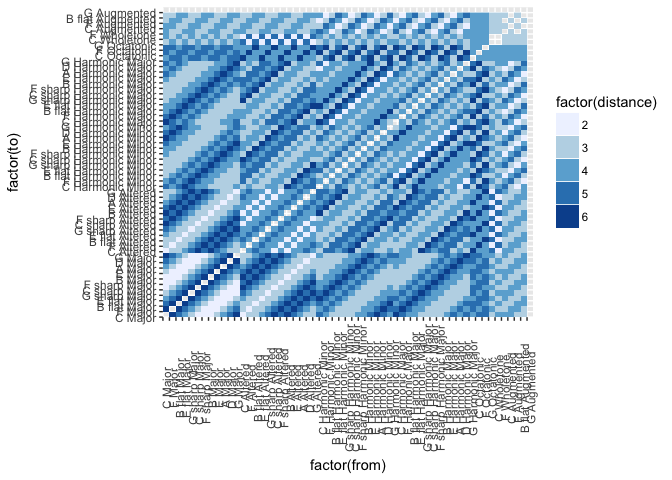
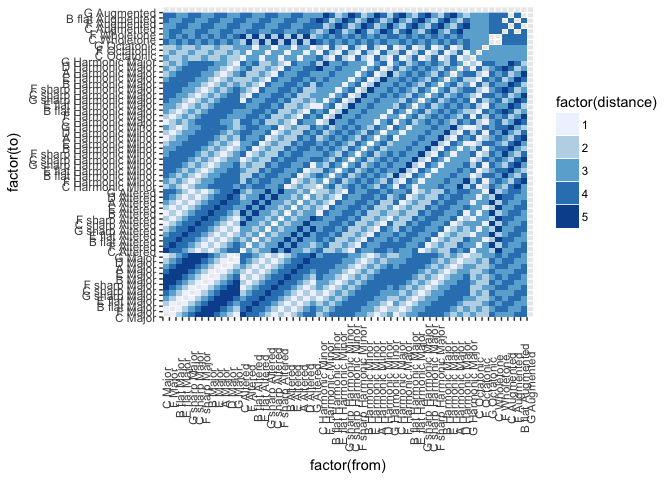
visualize simple scale subgraphs

Changed region(s): [[0.2188, 0.0, 0.7812, 0.6875], [0.8438, 0.3438, 0.875, 0.375], [0.8438, 0.25, 0.875, 0.2812]]

diff --git a/readme.md b/readme.md
@@ -19,7 +19,7 @@ Table of Contents
 ### Unexpected shapes in data
 
 After reading about unsupervised machine learning algorithms, like those in manifold learning, I became very interested in the shapes of datasets. I wanted to explore my own data sets and see how I could represent them in 2 or 3 dimensions.
-After some reading, I learned how the feature space of natural images is embedded on a **Klein bottle** (Carlsson et al. 2008), the famous topological curiosity that is locally 2-dimensional yet cannot be fully embedded or "placed" in 3 dimensions without self-intersecting.
+After some reading, I learned how the feature space of natural images is embedded on a **Klein bottle** \[@carlsson2008\], the famous topological curiosity that is locally 2-dimensional yet cannot be fully embedded or "placed" in 3 dimensions without self-intersecting.
 I found this to be one of those few times where the results of an investigation are so completely astonishing, that it changes the way I think. Carlsson's work inspired me to look at all data more deeply.
 
 ### Jazz is complex and structured, too
@@ -48,7 +48,7 @@ Mathematically we say they are isomorphic to the [quotient space](https://en.wik
 
 ### Manifolds and Music
 
-The combination of **high-dimensionality** and **circularity** suggests that an application of the topological theory of manifolds is necessary to study musical scales and harmony. In fact, in a 2006 study published in *Science*, Dr. Dmitri Tymoczko discovered the manifold structure of the voice-leading space(Tymoczko 2006). In this study, it was found that all chords of N pitches have an embedding on a manifold that is an N-dimensional analog to the Moebius strip. This embedding gives a representation in which one could visualize and intuitively understand certain complex chord changes, such as Chopin's E Minor Prelude that had challenged music theorists for decades.
+The combination of **high-dimensionality** and **circularity** suggests that an application of the topological theory of manifolds is necessary to study musical scales and harmony. In fact, in a 2006 study published in *Science*, Dr. Dmitri Tymoczko discovered the manifold structure of the voice-leading space\[@tymoczko2006\]. In this study, it was found that all chords of N pitches have an embedding on a manifold that is an N-dimensional analog to the Moebius strip. This embedding gives a representation in which one could visualize and intuitively understand certain complex chord changes, such as Chopin's E Minor Prelude that had challenged music theorists for decades.
 
 ### Project Goals
 
@@ -62,7 +62,17 @@ Tymoczko's work encouraged me to consider topological graph theory applied to th
 ----------------------------------------
 
 Some graphs can be embedded in the plane without intersection and these are called *planar graphs*. Others cannot be embedded in a plane because intersections are inevitable (the [utility graph](https://en.wikipedia.org/wiki/Three_utilities_problem) is a famous example).
-All can, however, be embedded in 3-dimensions, and all can be embedded in a manifold that is locally 2-dimensional everywhere, such as a [torus](https://en.wikipedia.org/wiki/Torus) (Trudeau 2013). Those that can be embedded in a torus, no surprise, are called [toroidal graphs](https://en.wikipedia.org/wiki/Toroidal_graph)
+All can, however, be embedded in 3-dimensions, and all can be embedded in a manifold that is locally 2-dimensional everywhere, such as a [torus](https://en.wikipedia.org/wiki/Torus) \[@trudeau2013\]. Those that can be embedded in a torus, no surprise, are called [toroidal graphs](https://en.wikipedia.org/wiki/Toroidal_graph)
+
+``` r
+library('curl')
+library('latexreadme')
+```
+
+Mathematical displays are marked off with `\[` and `\]`, as in
+*e*<sup>*i**π*</sup> = −1
+
+Before we can visualize scale networks, we have to reshape of the data.
 
 <a name="wrangling" /> Data Wrangling
 -------------------------------------
@@ -81,6 +91,7 @@ edge_list_raw <- data.table(read.csv('./edgetable.csv',header = FALSE))
 setnames(edge_list_raw,'V1','from')
 setnames(edge_list_raw,'V2','to')
 setnames(edge_list_raw,'V3','distance')
+edge_list_raw[,distance:=(7-distance)]
 setnames(edge_list_raw,'V4','common.tones')
 setnames(edge_list_raw,'V5','from.root')
 setnames(edge_list_raw,'V6','from.scale.type')
@@ -90,8 +101,91 @@ setnames(edge_list_raw,'V8','to.scale.type')
 
 We see that the data is 3186 rows. This means 3186 edges in the graph, which is equal to 57 \* 57 - 57 - 2\*(2 + 1) = 3186
 
-Sorting the Edge List for Plotting
-==================================
+### Converting to igraph
+
+Convert to standard igraph input format, which is a 'links' data.frame and a 'nodes' data.frame. We'll be subsetting the graph in many different ways before visualizing, so let's write a function to convert from our data.frame to igraph.
+
+``` r
+library(igraph)
+```
+
+    ## 
+    ## Attaching package: 'igraph'
+
+    ## The following objects are masked from 'package:stats':
+    ## 
+    ##     decompose, spectrum
+
+    ## The following object is masked from 'package:base':
+    ## 
+    ##     union
+
+``` r
+make.igraph <- function(edge.list){
+    links <- edge.list[,.(from,to,distance,common.tones)]
+    nodes <- unique(edge.list[,.(from,from.scale.type)])
+    # call igraph function to build igraph object
+    net <- graph_from_data_frame(d = links, vertices = nodes, directed = FALSE)
+    # remove multiple edges between same pair of nodes, while keeping the attribute 
+    #  of the max
+    net <- simplify(net, remove.multiple = T,edge.attr.comb = max) 
+    return(net)
+}
+```
+
+Plotting Jazz Scale Networks
+============================
+
+Let's pretend our harmonic universe consists only of major scales and their modes. This would describe most pop music, including songs that have key changes from diatonic scale to diatonic scale. Diatonic songs like "Let it Be" by the Beatles do not change keys and stay at a single node.
+
+``` r
+major.to.major.scales = edge_list_raw[from.scale.type=='Major'][to.scale.type=='Major']
+
+major.to.major.net = make.igraph(major.to.major.scales)
+major.to.major.net
+```
+
+    ## IGRAPH df4114c UN-- 12 66 -- 
+    ## + attr: name (v/c), from.scale.type (v/c), distance (e/n),
+    ## | common.tones (e/c)
+    ## + edges from df4114c (vertex names):
+    ##  [1] C Major      --F sharp Major C Major      --B Major      
+    ##  [3] C Major      --B flat Major  C Major      --F Major      
+    ##  [5] C Major      --E flat Major  C Major      --G Major      
+    ##  [7] C Major      --D Major       C Major      --G sharp Major
+    ##  [9] C Major      --C sharp Major C Major      --A Major      
+    ## [11] C Major      --E Major       F sharp Major--B Major      
+    ## [13] F sharp Major--B flat Major  F sharp Major--F Major      
+    ## + ... omitted several edges
+
+On first inspection, it looks like we have successfully built a network of Major scales.
+
+Since we are considering all distances, we are essentially building the *complete graph* because all Major scales are connected to other Major scales by some nonzero number of notes.
+
+We can use the properties of a complete graph to check that our. This Major-Major scale network has 12 nodes, and we have 66 edges, which is what we'd expect from the complete graph formula E = n*(n-1)/2 = 12*11/2 = 66. Here's a first shot at visualizing:
+
+``` r
+plot(major.to.major.net)
+```
+
+![](readme_files/figure-markdown_github/major.major.plot.1-1.png)
+
+Okay, let's do three things: filter edges by weight (i.e., isolate only the closest scale-scale edges), color edges by weight, and re-color scales.
+
+### Circle of Fifths
+
+The circle of fifths is essentially a network diagram of key signatures that differ by only 1 note. We can isolate this network in R by playing with the network edges via the following:
+
+``` r
+circle.of.fifths <- delete.edges(major.to.major.net,E(major.to.major.net)[E(major.to.major.net)$distance!=1])
+
+plot(circle.of.fifths)
+```
+
+![](readme_files/figure-markdown_github/circle.fifths-1.png)
+
+Sorting the Edge List for Plotting an Adjacency matrix
+======================================================
 
 We want to group all the scales by their type. Within a scale type, we want to order the root notes in a way that makes sense. Let's choose the circle of fifths because this will put neighboring major scales in proximity. This will see what this looks like for the Altered scales, Harmonic Minor scales, etc.
 
@@ -191,9 +285,3 @@ Given C Major, to which scales can we modulate without sounding too avant garde 
 
 References
 ==========
-
-Carlsson, Gunnar, Tigran Ishkhanov, Vin De Silva, and Afra Zomorodian. 2008. “On the Local Behavior of Spaces of Natural Images.” *International Journal of Computer Vision* 76 (1). Springer: 1–12.
-
-Trudeau, Richard J. 2013. *Introduction to Graph Theory*. Courier Corporation.
-
-Tymoczko, Dmitri. 2006. “The Geometry of Musical Chords.” *Science* 313 (5783). American Association for the Advancement of Science: 72–74.
